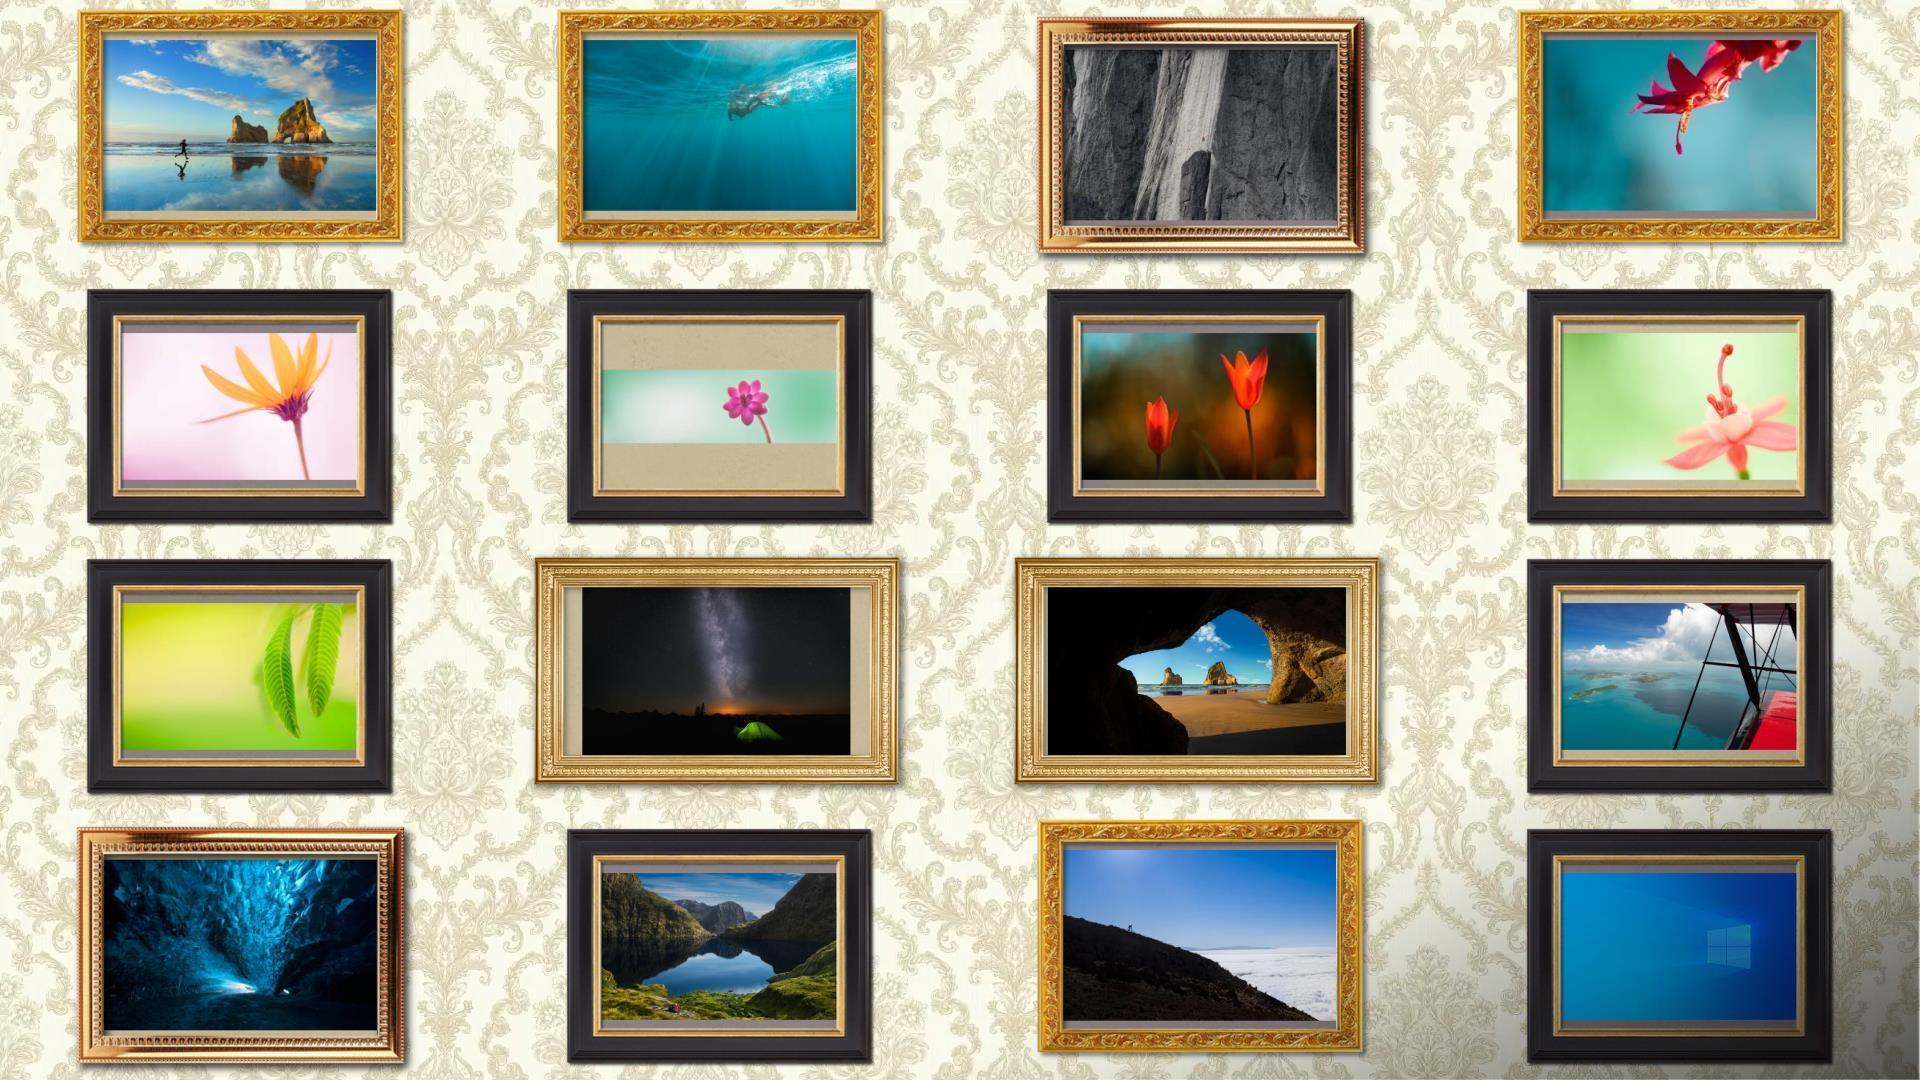
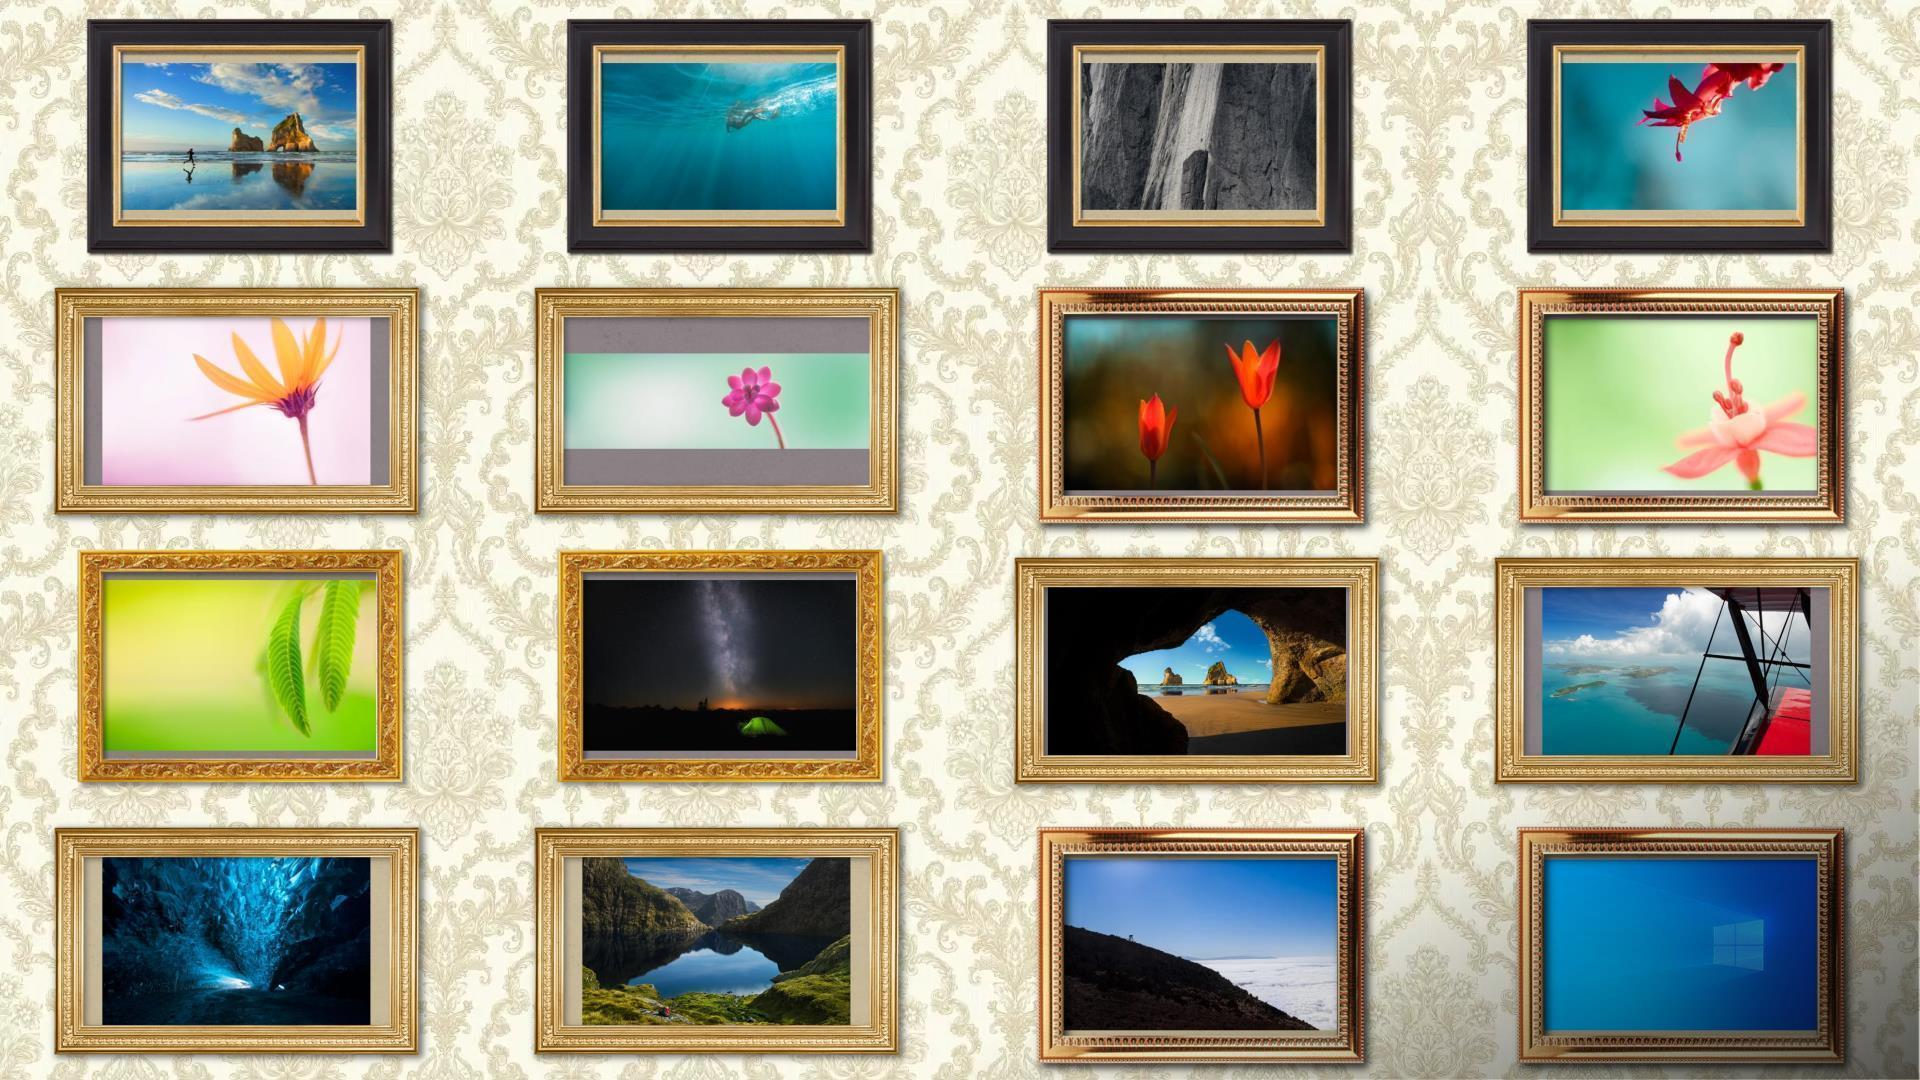
Optimizations

diff --git a/config.js b/config.js
@@ -2,15 +2,15 @@ var config = {
 	// Workers count
 	workersCount: 4,
 	// Gallery folder path
-	galleryFolderPath:			"images",
+	galleryFolderPath:			'images',
 	// Picture formats to filter in folder
-	imagesFormats:				"*.jpg;*.bmp;*.gif;*.png",
+	imagesFormats:				'*.jpg;*.bmp;*.gif;*.png',
 	// Wall settings
 	wall: {
 		// Wallpaper image path
-		sources:[
-			"includes\\images\\wallpaper1.jpg",
-			"includes\\images\\wallpaper2.jpg"
+		images:[
+			{path:'includes\\images\\wallpaper1.jpg'},
+			{path:'includes\\images\\wallpaper2.jpg'}
 		],
 		// Wall width
 		width:					1920,
@@ -18,21 +18,21 @@ var config = {
 		height:					1080
 	},
 	// shadow image
-	shadowImage: 'includes\\images\\shadow.png',
+	shadowImagePath: 'includes\\images\\shadow.png',
 	// frames settings
 	frame: {
 		// Canvas image
-		canvas: "includes\\images\\canvas.png",
+		canvas: 'includes\\images\\canvas.png',
 		// Background image paths
 		backgrounds:[
-			"includes\\images\\frame_backgroud1.jpg",
-			"includes\\images\\frame_backgroud2.jpg"
+			{path:'includes\\images\\frame_backgroud1.jpg'},
+			{path:'includes\\images\\frame_backgroud2.jpg'}
 		]
 	},
 	frames:[
 		{
 			// Frame image path
-			source: "includes\\images\\frame1.png",
+			source: 'includes\\images\\frame1.png',
 			// Padding for positioning picture in frame
 			paddings:{
 				left:		55,
@@ -43,7 +43,7 @@ var config = {
 		},
 		{
 			// Frame image path
-			source: "includes\\images\\frame2.png",
+			source: 'includes\\images\\frame2.png',
 			// Padding for positioning picture in frame
 			paddings:{
 				left:		54,
@@ -54,7 +54,7 @@ var config = {
 		},
 		{
 			// Frame image path
-			source: "includes\\images\\frame3.png",
+			source: 'includes\\images\\frame3.png',
 			// Padding for positioning picture in frame
 			paddings:{
 				left:		76,
@@ -65,7 +65,7 @@ var config = {
 		},
 		{
 			// Frame image path
-			source: "includes\\images\\frame4.png",
+			source: 'includes\\images\\frame4.png',
 			// Padding for positioning picture in frame
 			paddings:{
 				left:		98,

diff --git a/includes/worker.core.js b/includes/worker.core.js
@@ -8,11 +8,10 @@ Tasks:
 (function(context){
 	// Initializing connector
 	var connector = GetObject("script:file:includes\\shell.connector.wsc"),
+		// Shell object. Used for reading process environment variables
 		wshShell = new ActiveXObject('WScript.Shell'),
 		// Process shell variables used for current process
 		vars = wshShell.Environment('Process'),
-		// File System Object
-		fso = new ActiveXObject('Scripting.FileSystemObject'),
 		// Creating html document to use "setInterval" function and JSON object
 		document = new ActiveXObject('htmlfile'),
 		// document parent window object (Used for JS setTimeout / setInterval functions)
